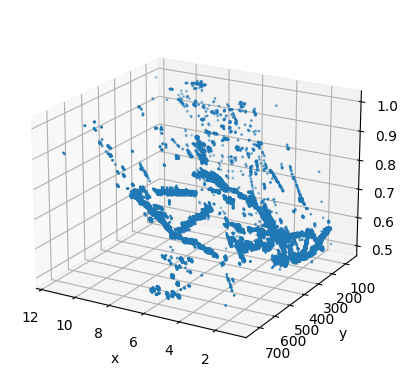
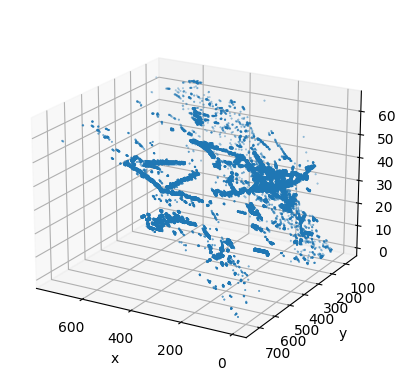
Refining task 1

diff --git a/cwk-3/stereo.py b/cwk-3/stereo.py
@@ -56,7 +56,7 @@ def open_image(i=None):
 
 
 def getDisparity():
-    global disparityNormalised
+    global disparityNormalised, disparity_img
     canny_images = [cv2.Canny(i, canny_vals[0], canny_vals[1]) for i in images]
     disparity_img = disparity.getDisparityMap(canny_images[0], canny_images[1], 64, 5)
     disparityNormalised = np.interp(disparity_img, (disparity_img.min(), disparity_img.max()), (0.0, 1.0))
@@ -89,6 +89,7 @@ print(f"focal length "
 # DISPARITY MAP
 cv2.imshow(f"Disparity", images[0])
 disparityNormalised = []
+disparity_img = []
 cv2.createTrackbar('Canny1', 'Disparity', canny_vals[0], 255, change1)
 cv2.createTrackbar('Canny2', 'Disparity', canny_vals[1], 255, change2)
 
@@ -100,11 +101,11 @@ image_depth = np.zeros_like(disparityNormalised)
 
 # calculate Z value for each coordinate
 coordinates = []
-for i, row in enumerate(disparityNormalised):
+for i, row in enumerate(disparity_img):
     for j, column in enumerate(row):
-        if disparityNormalised[i][j] > 0.5:
-            x = (disparityNormalised[i][j]/focal_length) * i
-            coordinates.append((x, j, disparityNormalised[i][j]))
+        if disparityNormalised[i][j] > 0:
+            x = (column/focal_length) * i
+            coordinates.append((x, j, column))
         # image_depth[i][j] = baseline * (focal_length / (disparityNormalised[i][j] + doffs))
 
 # Calculate world co-ordinates using similar triangles
